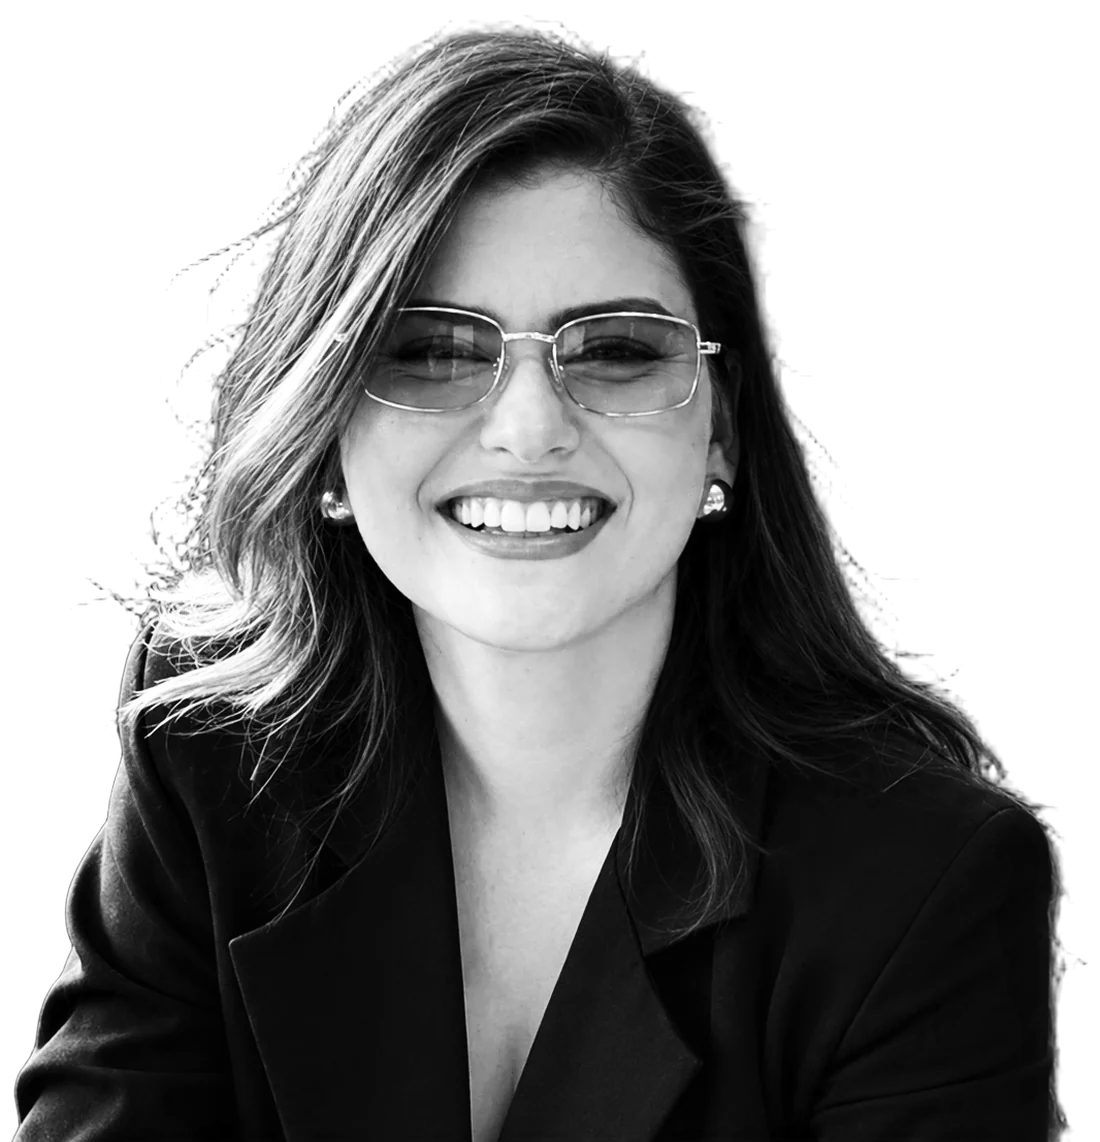
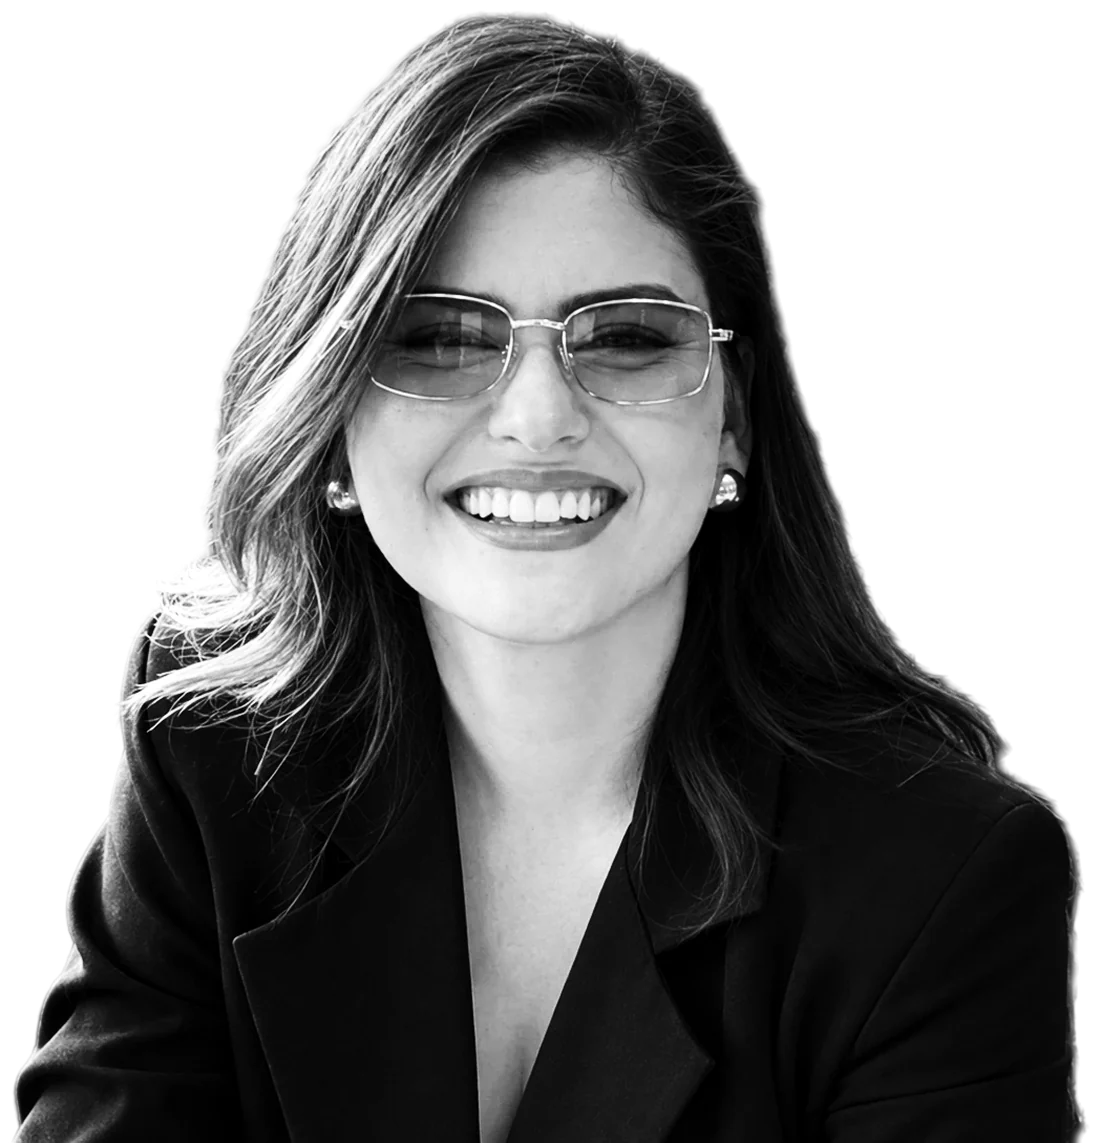
Hero: foto maior e recorte do cabelo refinado
- Novo matte (scripts/refine_matte.py): abertura morfológica remove fios
  quebrados, filtro guiado elimina o serrilhado, descontaminação de cor
  tira o resíduo do fundo original das bordas
- Retrato cerca de 40% maior em área; pode sangrar pela borda direita
- Y dimensionado pelo palco; M ancorado à borda visível
- Topo do bloco e do Y controlados por uma única variável (--block-top),
  mais baixo em telas largas para não tocar o nome

Claude-Session: https://claude.ai/code/session_01KShH4vEDZ7omsZKtBDgqkB

diff --git a/src/components/Hero.css b/src/components/Hero.css
@@ -122,10 +122,16 @@
 
 /* ---------- Palco ---------- */
 .hero__stage {
-  /* Caixa da fotografia (1100 × 1142). Tudo em .fig é relativo a ela. */
-  --fig-h: calc(var(--stage-h) * 0.8);
-  --fig-w: calc(var(--fig-h) * 1100 / 1142);
-  --fig-x: 56%;
+  /* --y-size: corpo do Y (dimensionado pelo palco)
+     --fig-*: caixa da fotografia (1100 × 1143); tudo em .fig é relativo a ela.
+     A foto começa logo após a parte visível do Y e pode sangrar pela borda
+     direita (o ombro sai do quadro; o rosto fica sempre inteiro). */
+  --y-size: calc(var(--stage-h) * 0.6);
+  --fig-h: calc(var(--stage-h) * 0.93);
+  --fig-w: calc(var(--fig-h) * 1100 / 1143);
+  --fig-left: calc(var(--y-size) * 0.3);
+  /* topo do bloco e do Y, em fração da altura da foto (abaixo do queixo) */
+  --block-top: 0.5;
   grid-area: stage;
   position: relative;
   margin-right: calc(-1 * var(--gutter));
@@ -160,33 +166,25 @@
 .fig {
   position: absolute;
   bottom: 0;
-  left: calc(var(--fig-x) - var(--fig-w) / 2);
+  left: var(--fig-left);
   width: var(--fig-w);
   height: var(--fig-h);
 }
 
-/* Bloco vermelho atrás do corpo. O topo fica na linha do queixo, alinhado
+/* Bloco vermelho atrás do corpo. O topo fica abaixo do queixo, alinhado
    ao topo do Y: o rosto inteiro fica livre acima — nada atrás da cabeça. */
 .stage__block {
   position: absolute;
-  left: -27%;
-  right: -60vw;
-  top: 45%;
+  left: calc(var(--y-size) * -0.36);
+  right: -100vw;
+  top: calc(var(--fig-h) * var(--block-top));
   bottom: 0;
   background: var(--signal);
 }
-/* trama pontilhada no canto superior direito (longe do rosto) */
 .stage__dots {
-  position: absolute;
-  top: 1.25rem;
-  left: calc(127% + 1.25rem);
-  width: clamp(80px, 9vw, 150px);
-  height: clamp(80px, 9vw, 150px);
-  background-image: radial-gradient(var(--ink) 1.3px, transparent 1.6px);
-  background-size: 14px 14px;
-  opacity: 0.55;
+  display: none;
 }
-/* marcas de corte, como numa prova gráfica */
+/* marca de corte, como numa prova gráfica */
 .stage__crop {
   position: absolute;
   top: -14px;
@@ -202,27 +200,30 @@
   display: none;
 }
 
-/* Y: sólido, à esquerda do retrato. O topo dos braços (0,12em abaixo do
-   topo da caixa) fica abaixo da linha do queixo; a letra cruza a borda
-   do bloco e a base passa por trás do ombro. */
+/* Y: sólido, à esquerda do retrato, inteiro sobre o vermelho.
+   O topo dos braços (0,12em abaixo do topo da caixa) alinha com o bloco. */
 .stage__y {
   position: absolute;
-  font-size: calc(var(--fig-h) * 0.8);
+  font-size: var(--y-size);
   line-height: 1;
-  top: calc(var(--fig-h) * 0.48 - 0.12em);
+  top: calc(var(--fig-h) * var(--block-top) + 0.035em - 0.12em);
   right: 100%;
   margin-right: -0.17em;
   color: var(--ink);
   user-select: none;
 }
 
-/* M: carimbo em primeiro plano, à direita */
+/* M: carimbo em primeiro plano, ancorado à borda direita visível */
+.stage__m-box {
+  position: absolute;
+  inset: 0;
+}
 .stage__m {
   position: absolute;
-  right: 1%;
+  right: calc(var(--gutter) + 1.5%);
   bottom: 4%;
   margin-bottom: -0.16em;
-  font-size: calc(var(--fig-h) * 0.42);
+  font-size: calc(var(--stage-h) * 0.34);
   line-height: 1;
   color: var(--paper);
   -webkit-text-stroke: 1.5px var(--ink);
@@ -243,8 +244,8 @@
     grid-template-columns: minmax(0, 1fr) minmax(0, 1fr);
   }
   .hero__stage {
-    --fig-h: calc(var(--stage-h) * 0.66);
-    --fig-x: 58%;
+    --y-size: calc(var(--stage-h) * 0.48);
+    --fig-h: calc(var(--stage-h) * 0.8);
   }
 }
 
@@ -276,19 +277,12 @@
     margin: -0.15em calc(-1 * var(--gutter)) 0;
   }
   .hero__stage {
-    --fig-h: calc(var(--stage-h) * 0.76);
-    --fig-x: 57%;
-  }
-  .stage__dots {
-    display: none;
+    --y-size: calc(var(--stage-h) * 0.5);
+    --fig-h: calc(var(--stage-h) * 0.9);
+    --fig-left: calc(var(--gutter) + var(--y-size) * 0.3);
   }
   .stage__m {
-    right: 2%;
-    font-size: calc(var(--fig-h) * 0.38);
-  }
-  .stage__y {
-    font-size: calc(var(--fig-h) * 0.7);
-    margin-right: -0.14em;
+    font-size: calc(var(--stage-h) * 0.3);
   }
   .hero__body {
     padding-top: 2.25rem;
@@ -307,7 +301,15 @@
     --stage-h: min(84vw, 680px);
   }
   .hero__stage {
-    --fig-h: calc(var(--stage-h) * 0.9);
-    --fig-x: 59%;
+    --y-size: calc(var(--stage-h) * 0.55);
+    --fig-h: calc(var(--stage-h) * 0.95);
+    --fig-left: calc(var(--gutter) + var(--y-size) * 0.35);
+  }
+}
+
+/* Telas largas: o nome cresce; o bloco desce para não tocar o "Manasera." */
+@media (min-width: 1600px) {
+  .hero__stage {
+    --block-top: 0.6;
   }
 }

diff --git a/src/components/Hero.tsx b/src/components/Hero.tsx
@@ -211,7 +211,7 @@ export function Hero() {
               className="stage__photo"
               src={images.heroCutout.src}
               srcSet={images.heroCutout.srcSet}
-              sizes="(max-width: 900px) 80vw, 42vw"
+              sizes="(max-width: 900px) 100vw, 52vw"
               width={images.heroCutout.width}
               height={images.heroCutout.height}
               alt={images.heroCutout.alt}
@@ -225,7 +225,7 @@ export function Hero() {
         </div>
 
         <Depth x={sx} y={sy} depth={12} className="stage__layer stage__layer--mono stage__layer--m">
-          <div className="fig">{monogram('M', 'stage__m serif')}</div>
+          <div className="stage__m-box">{monogram('M', 'stage__m serif')}</div>
         </Depth>
       </div>
 

diff --git a/src/content/profile.ts b/src/content/profile.ts
@@ -290,7 +290,7 @@ export const images = {
     src: imgHero1100,
     srcSet: `${imgHero640} 640w, ${imgHero1100} 1100w`,
     width: 1100,
-    height: 1142,
+    height: 1143,
     alt: 'Retrato em preto e branco de Yasmin Manasera sorrindo, de óculos e blazer preto.',
   },
 }

diff --git a/scripts/refine_matte.py b/scripts/refine_matte.py
@@ -1,0 +1,68 @@
+"""
+Refina o matte do recorte (cabelo) antes do tratamento P&B.
+
+  python3 scripts/refine_matte.py
+
+Entrada : assets-src/photos/yasmin-retrato-estudio.webp  (foto original)
+          assets-src/photos/yasmin-retrato-recorte.png   (alpha do BiRefNet)
+Saída   : assets-src/photos/yasmin-retrato-recorte-refinado.png
+
+Etapas:
+ 1. abertura morfológica no alpha: remove fios finos e quebrados
+    (que aparecem como "tracejado" sobre fundos chapados);
+ 2. remoção de fragmentos desconectados da silhueta principal;
+ 3. filtro guiado (guia = luminância da foto): alinha a borda ao contorno
+    real do cabelo e elimina o serrilhado em degraus;
+ 4. curva de contraste suave no alpha + leve desfoque: borda limpa e macia;
+ 5. descontaminação de cor (pymatting.estimate_foreground_ml): remove o
+    resíduo do fundo escuro original nas bordas semitransparentes.
+"""
+from pathlib import Path
+import numpy as np
+from PIL import Image
+from scipy import ndimage as ndi
+from pymatting import estimate_foreground_ml
+
+ROOT = Path(__file__).resolve().parent.parent
+SRC = ROOT / 'assets-src' / 'photos'
+
+img = np.asarray(Image.open(SRC / 'yasmin-retrato-estudio.webp').convert('RGB')).astype(np.float64) / 255
+a = np.asarray(Image.open(SRC / 'yasmin-retrato-recorte.png').convert('RGBA'))[..., 3].astype(np.float64) / 255
+
+# 1. abertura morfológica (estruturas com menos de ~7 px somem)
+a1 = ndi.grey_opening(a, size=(7, 7))
+
+# 2. mantém só a silhueta principal
+lab, n = ndi.label(a1 > 0.5)
+if n > 1:
+    sizes = ndi.sum(np.ones_like(a1), lab, index=range(1, n + 1))
+    main = lab == (1 + int(np.argmax(sizes)))
+    keep = ndi.binary_dilation(main, iterations=6)
+    a1 = a1 * keep
+
+# 3. filtro guiado
+def box(x, r):
+    return ndi.uniform_filter(x, size=2 * r + 1, mode='reflect')
+
+def guided(I, p, r, eps):
+    mI, mp = box(I, r), box(p, r)
+    cov = box(I * p, r) - mI * mp
+    var = box(I * I, r) - mI * mI
+    A = cov / (var + eps)
+    b = mp - A * mI
+    return box(A, r) * I + box(b, r)
+
+lum = img @ np.array([0.3, 0.59, 0.11])
+a2 = np.clip(guided(lum, a1, r=4, eps=1e-3), 0, 1)
+
+# 4. curva suave + leve desfoque
+t = np.clip((a2 - 0.12) / 0.76, 0, 1)
+a3 = t * t * (3 - 2 * t)
+a3 = ndi.gaussian_filter(a3, 0.7)
+a3[a3 < 0.02] = 0
+
+# 5. descontaminação de cor
+fg = estimate_foreground_ml(img, a3)
+out = np.dstack([np.clip(fg, 0, 1), a3])
+Image.fromarray((out * 255 + 0.5).astype(np.uint8), 'RGBA').save(SRC / 'yasmin-retrato-recorte-refinado.png')
+print('ok', out.shape)

diff --git a/scripts/process_images.py b/scripts/process_images.py
@@ -4,12 +4,13 @@ Gera os assets web a partir das fotos originais em assets-src/photos.
   python3 scripts/process_images.py
 
 1) Retrato de estúdio -> recorte (alpha) em P&B editorial de alto contraste.
-   O recorte (assets-src/photos/yasmin-retrato-recorte.png) foi gerado com
+   O alpha bruto (assets-src/photos/yasmin-retrato-recorte.png) foi gerado com
    `rembg` + modelo BiRefNet-portrait. Para regenerá-lo:
      pip install rembg
      python3 -c "from rembg import remove,new_session;from PIL import Image;\
        remove(Image.open('assets-src/photos/yasmin-retrato-estudio.webp').convert('RGB'),\
        session=new_session('birefnet-portrait')).save('assets-src/photos/yasmin-retrato-recorte.png')"
+   Depois rode scripts/refine_matte.py, que gera yasmin-retrato-recorte-refinado.png.
 2) Fotos de viagem -> crops verticais em cor (o P&B é aplicado via CSS).
 """
 from pathlib import Path
@@ -36,8 +37,7 @@ def editorial_bw(rgba: Image.Image) -> Image.Image:
     s = 1 / (1 + np.exp(-7.5 * (lum - 0.5)))
     s0, s1 = 1 / (1 + np.exp(3.75)), 1 / (1 + np.exp(-3.75))
     lum = (s - s0) / (s1 - s0) * 0.82 + lum * 0.18
-    # Alpha: aperta levemente as bordas semitransparentes (evita halo).
-    a = np.clip((a - 0.06) / 0.94, 0, 1) ** 1.15
+    # Alpha já refinado em refine_matte.py (sem ajustes extras aqui).
     g = (np.clip(lum, 0, 1) * 255).astype(np.uint8)
     out = np.dstack([g, g, g, (a * 255).astype(np.uint8)])
     return Image.fromarray(out, "RGBA")
@@ -50,7 +50,7 @@ def save_webp(im: Image.Image, name: str, width: int, quality: int = 84):
 
 
 # 1) Retrato recortado
-cut = Image.open(SRC / "yasmin-retrato-recorte.png").convert("RGBA")
+cut = Image.open(SRC / "yasmin-retrato-recorte-refinado.png").convert("RGBA")  # ver refine_matte.py
 bbox = cut.getchannel("A").point(lambda v: 255 if v > 8 else 0).getbbox()
 x0, y0, x1, y1 = bbox
 pad = 10

diff --git a/README.md b/README.md
@@ -136,9 +136,10 @@ contato falso.
 ## Trocar ou adicionar fotos
 
 1. Coloque o original em `assets-src/photos/`.
-2. Para o hero: gere o recorte (instruções no topo de
-   `scripts/process_images.py`) e rode `python3 scripts/process_images.py`.
+2. Para o hero: gere o recorte bruto (instruções no topo de
+   `scripts/process_images.py`), refine o matte do cabelo com
+   `python3 scripts/refine_matte.py` e rode `python3 scripts/process_images.py`.
 3. Se a nova foto tiver outro enquadramento, ajuste em `Hero.css`:
-   - `--fig-h` e `--fig-x`: tamanho e posição da foto no palco.
-   - `.stage__block` (`top`): topo do bloco, na linha do queixo.
-   - `.stage__y` (`top`): topo do Y, alinhado ao topo do bloco.
+   - `--fig-h`, `--fig-left` e `--y-size`: tamanho da foto, posição e corpo do Y.
+   - `--block-top`: topo do bloco e do Y (fração da altura da foto, abaixo
+     do queixo).
